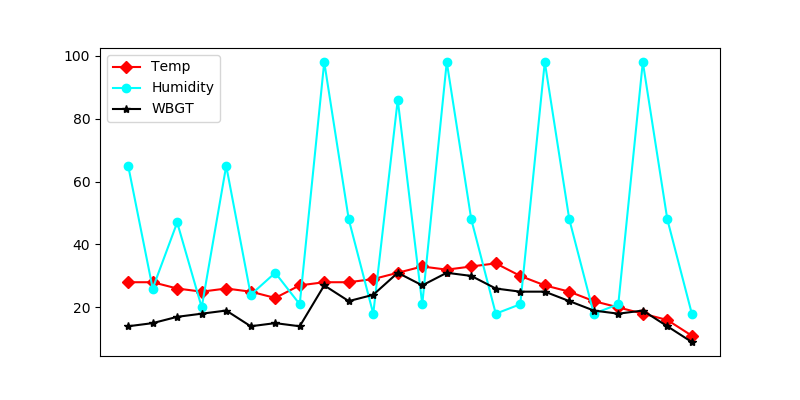
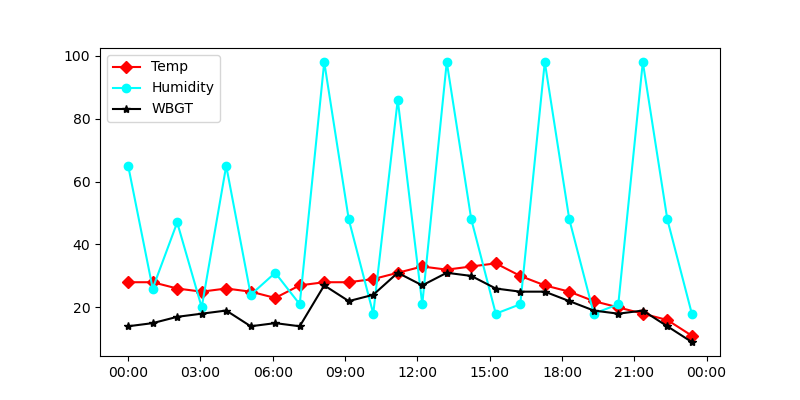
グラフの調整もろもろ

diff --git a/src/SlackAPI/SlackAPI_class.py b/src/SlackAPI/SlackAPI_class.py
@@ -8,6 +8,7 @@ from slack import RTMClient
 import requests
 import matplotlib as mpl
 import matplotlib.pyplot as plt
+from PIL import Image
 from slack.errors import SlackApiError
 
 class SlackAPI:
@@ -79,7 +80,7 @@ class SlackAPI:
             assert e.response["error"]
 
     def Visualization_Sitting(self,path):
-        array = np.loadtxt(path)
+        array = np.loadtxt(path,delimiter=',')
         print(array)
         size = array.shape[0]
         #blue
@@ -89,9 +90,28 @@ class SlackAPI:
         #label
         st = ["Standing","Sitting"]
         colorlist = np.zeros((size,3),np.float64)
-        label_list = []
+        start_time = int(array[0,0])
+        now_time = 0
+        time_array = [0]
+        label_list = ['Standing']
         #create label and color list
-        for w in range(size):
+        for w in range(size+1):
+            if w == size:
+                time_array.append(2398 - now_time)
+                label_list.append(st[0])
+                break
+            num = int(array[w,0])
+            minute = num %100
+            hour = (num - minute)
+            print(minute)
+            print(hour)
+            minute = round(minute*1.6666666666666666)
+            num = hour + minute
+            sabun_time = num - now_time
+            now_time = num
+            print(now_time)
+            time_array.append(sabun_time)
+            
             if array[w,1] == 0:
                 colorlist[w,:] = col1[:]
                 label_list.append(st[0])
@@ -99,8 +119,10 @@ class SlackAPI:
                 colorlist[w,:] = col2[:]
                 label_list.append(st[1])
         #create Graph
+        print(time_array)
+        print(label_list)
         plt.figure()
-        plt.pie(array[:,0], labels=label_list,colors = colorlist,startangle=90,counterclock=False)
+        plt.pie(time_array,colors = colorlist,startangle=90,counterclock=False)
         label_time = ["AM","PM"]
         x_time = np.array([100 , 100])
         colorlist_time = ["pink","magenta"]
@@ -108,15 +130,23 @@ class SlackAPI:
         centre_circle = plt.Circle((0,0),0.6,color='black', fc='white',linewidth=1.25)
         fig = plt.gcf()
         fig.gca().add_artist(centre_circle)
+        plt.legend(st,bbox_to_anchor=(1.3, 1.1), loc='upper right', borderaxespad=0, fontsize=15)
         print("Sitting Graph created!")
         #save graph
         file_path = "Sitting_Graph.png"
         fig.savefig(file_path)
+        
+        img = np.array(Image.open('tokei.png'))
+        graph = np.array(Image.open(file_path))
+        new_graph = np.where(img == [255, 255, 255, 255], graph, img)
+        pil_img = Image.fromarray(new_graph)
+        #print(pil_img.mode) #RGBA
+        pil_img.save(file_path)
         message = "昨日1日のあなたの座っていた時間の記録のグラフです！"
         self.Visualization_send(file_path,message)
 
     def Visualization_Ventilation(self,path):
-        array = np.loadtxt(path)
+        array = np.loadtxt(path,delimiter=',')
         size = array.shape[0]
         #green
         col1 = np.array([176/255,255/255,5/255])
@@ -125,9 +155,28 @@ class SlackAPI:
         #label
         st = ["Close","Open"]
         colorlist = np.zeros((size,3),np.float64)
-        label_list = []
+        start_time = int(array[0,0])
+        now_time = 0
+        time_array = [0]
+        label_list = ['Close']
         #create label and color list
-        for w in range(size):
+        for w in range(size+1):
+            if w == size:
+                time_array.append(2398 - now_time)
+                label_list.append(st[0])
+                break
+            num = int(array[w,0])
+            minute = num %100
+            hour = (num - minute)
+            print(minute)
+            print(hour)
+            minute = round(minute*1.6666666666666666)
+            num = hour + minute
+            sabun_time = num - now_time
+            now_time = num
+            print(now_time)
+            time_array.append(sabun_time)
+            
             if array[w,1] == 0:
                 colorlist[w,:] = col1[:]
                 label_list.append(st[0])
@@ -135,8 +184,10 @@ class SlackAPI:
                 colorlist[w,:] = col2[:]
                 label_list.append(st[1])
         #create Graph
+        print(time_array)
+        print(label_list)
         plt.figure()
-        plt.pie(array[:,0], labels=label_list,colors = colorlist,startangle=90,counterclock=False)
+        plt.pie(time_array, colors = colorlist,startangle=90,counterclock=False)
         label_time = ["AM","PM"]
         x_time = np.array([100 , 100])
         colorlist_time = ["pink","magenta"]
@@ -144,10 +195,19 @@ class SlackAPI:
         centre_circle = plt.Circle((0,0),0.6,color='black', fc='white',linewidth=1.25)
         fig = plt.gcf()
         fig.gca().add_artist(centre_circle)
+        plt.legend(st,bbox_to_anchor=(1.3, 1.1), loc='upper right', borderaxespad=0, fontsize=15)
         print("Ventilation Graph created!")
         #save graph
         file_path = "Ventilation_Graph.png"
         fig.savefig(file_path)
+        
+        img = np.array(Image.open('tokei.png'))
+        graph = np.array(Image.open(file_path))
+        new_graph = np.where(img == [255, 255, 255, 255], graph, img)
+        pil_img = Image.fromarray(new_graph)
+        #print(pil_img.mode) #RGBA
+        pil_img.save(file_path)
+        
         message = "昨日1日のあなたの家の窓の開閉の記録のグラフです！"
         self.Visualization_send(file_path,message)
 

diff --git a/src/SlackAPI/SlackAPI_class_test.py b/src/SlackAPI/SlackAPI_class_test.py
@@ -29,14 +29,17 @@ Slack.Notification_HeatStroke(a,b)
 Slack.Notification_Sitting(b)
 Slack.Notification_Ventilation(b)
 
-x = np.array([[1000,0],[150,1],[250 , 0],[350,1],[200,0],[50,1], [400,0]])
+x = np.array([[1045,0],[1101,1],[1122 , 0],[1511,1],[1600,0],[1620,1], [2000,0]])
+y = np.array([[1022,0],[1301,1],[1311 , 0],[1320,1],[1344,0],[1559,1], [1602,0]])
 #x = np.array([[10:10:00,0],[13:13:00,1],[15:15:00 , 0],[16:16:00,1]])
 print(x)
 path = 'Sitting.csv'
-np.savetxt(path,x,fmt='%d')
-print(np.loadtxt(path,dtype='int64'))
-
+np.savetxt(path,x,fmt='%d',delimiter=',')
+print(np.loadtxt(path,dtype='int64',delimiter=','))
 Slack.Visualization_Sitting(path)
+
+path = 'Venti.csv'
+np.savetxt(path,y,fmt='%d',delimiter=',')
 Slack.Visualization_Ventilation(path)
 
 data = """date,Hum,Temp,WBGT
@@ -73,7 +76,7 @@ Slack.Visualization_HeatStroke(path)
 
 #print("SlackAPI開始！")
 #Slack.SlackAPI_Start()
-
+"""
 @RTMClient.run_on(event='message')
 def say_hello(**payload):
     data = payload['data']
@@ -104,3 +107,4 @@ tokenkey = os.environ["SLACK_API_TOKEN"]
 rtm_client = RTMClient(token = tokenkey)
 print("Hello_test")
 rtm_client.start()
+"""
